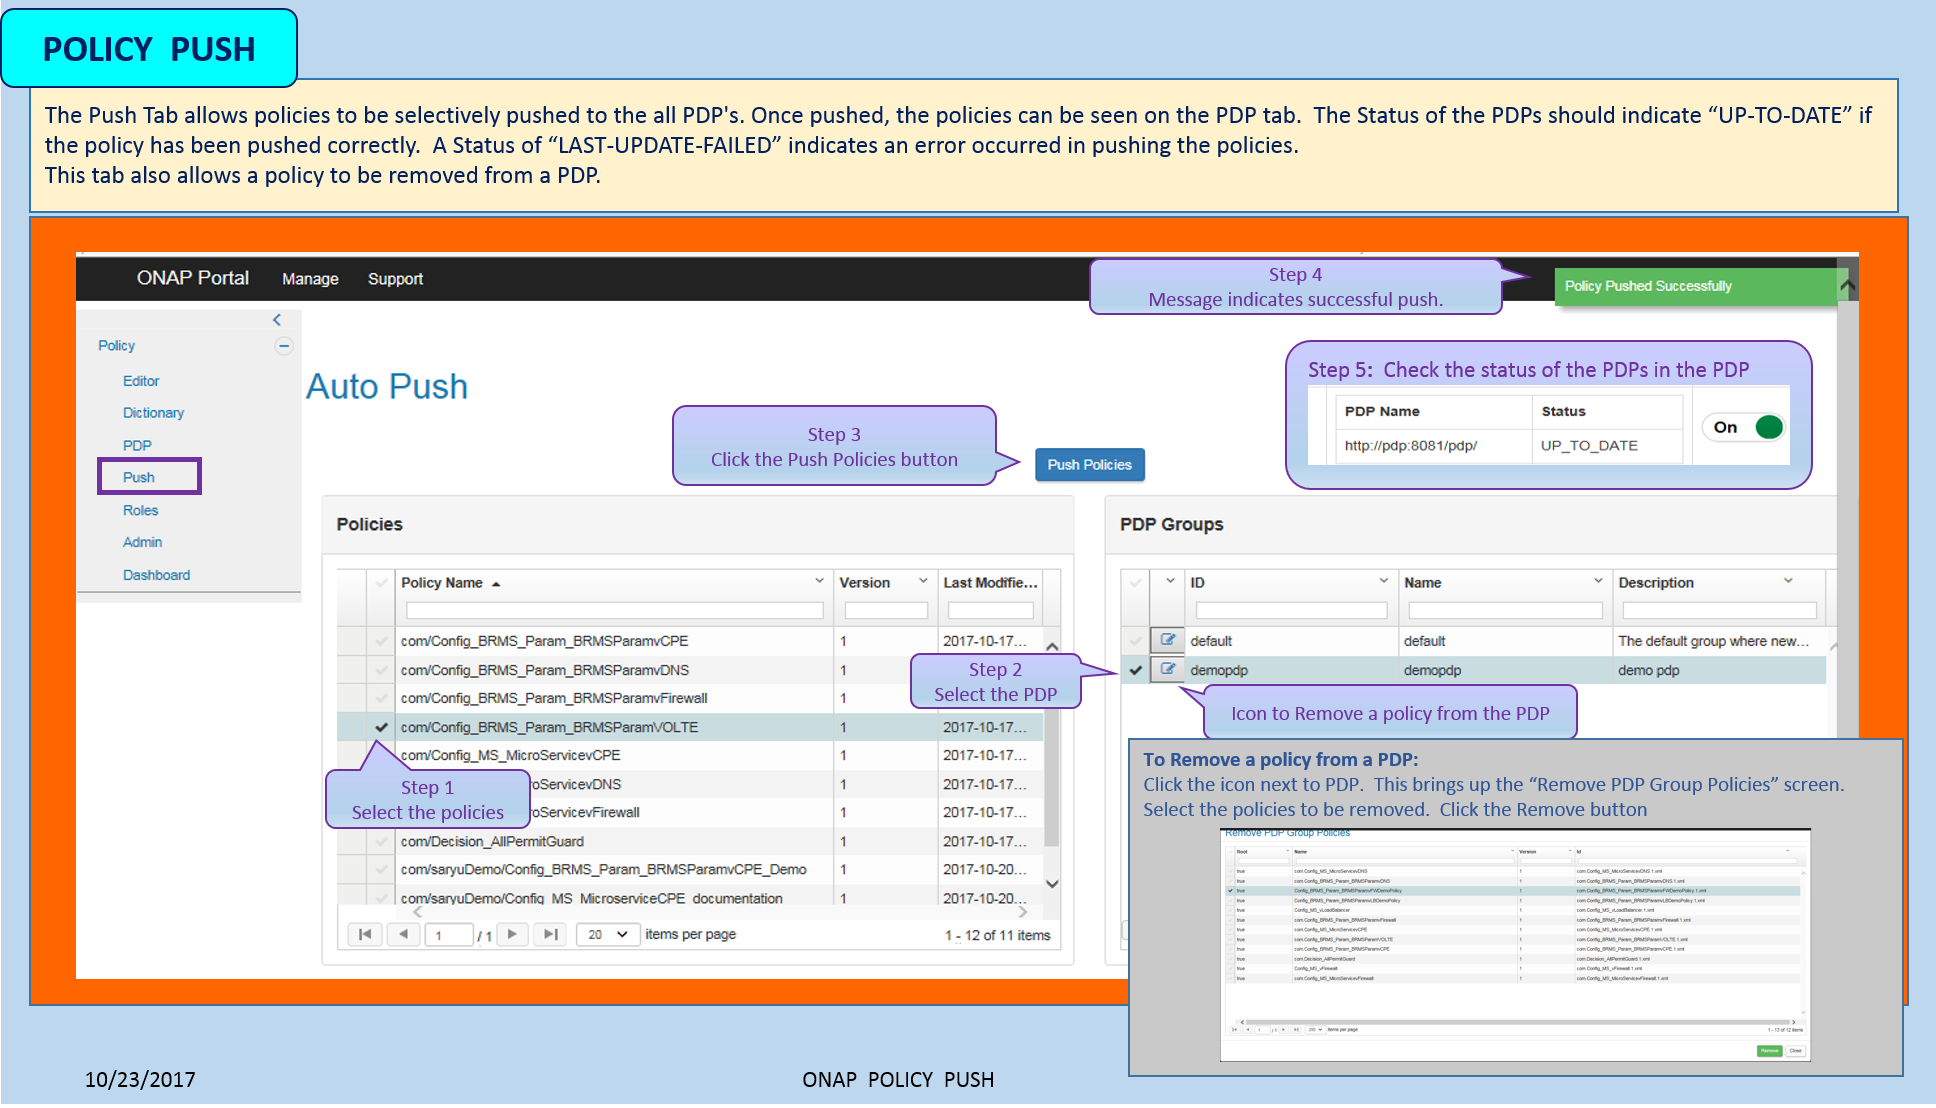
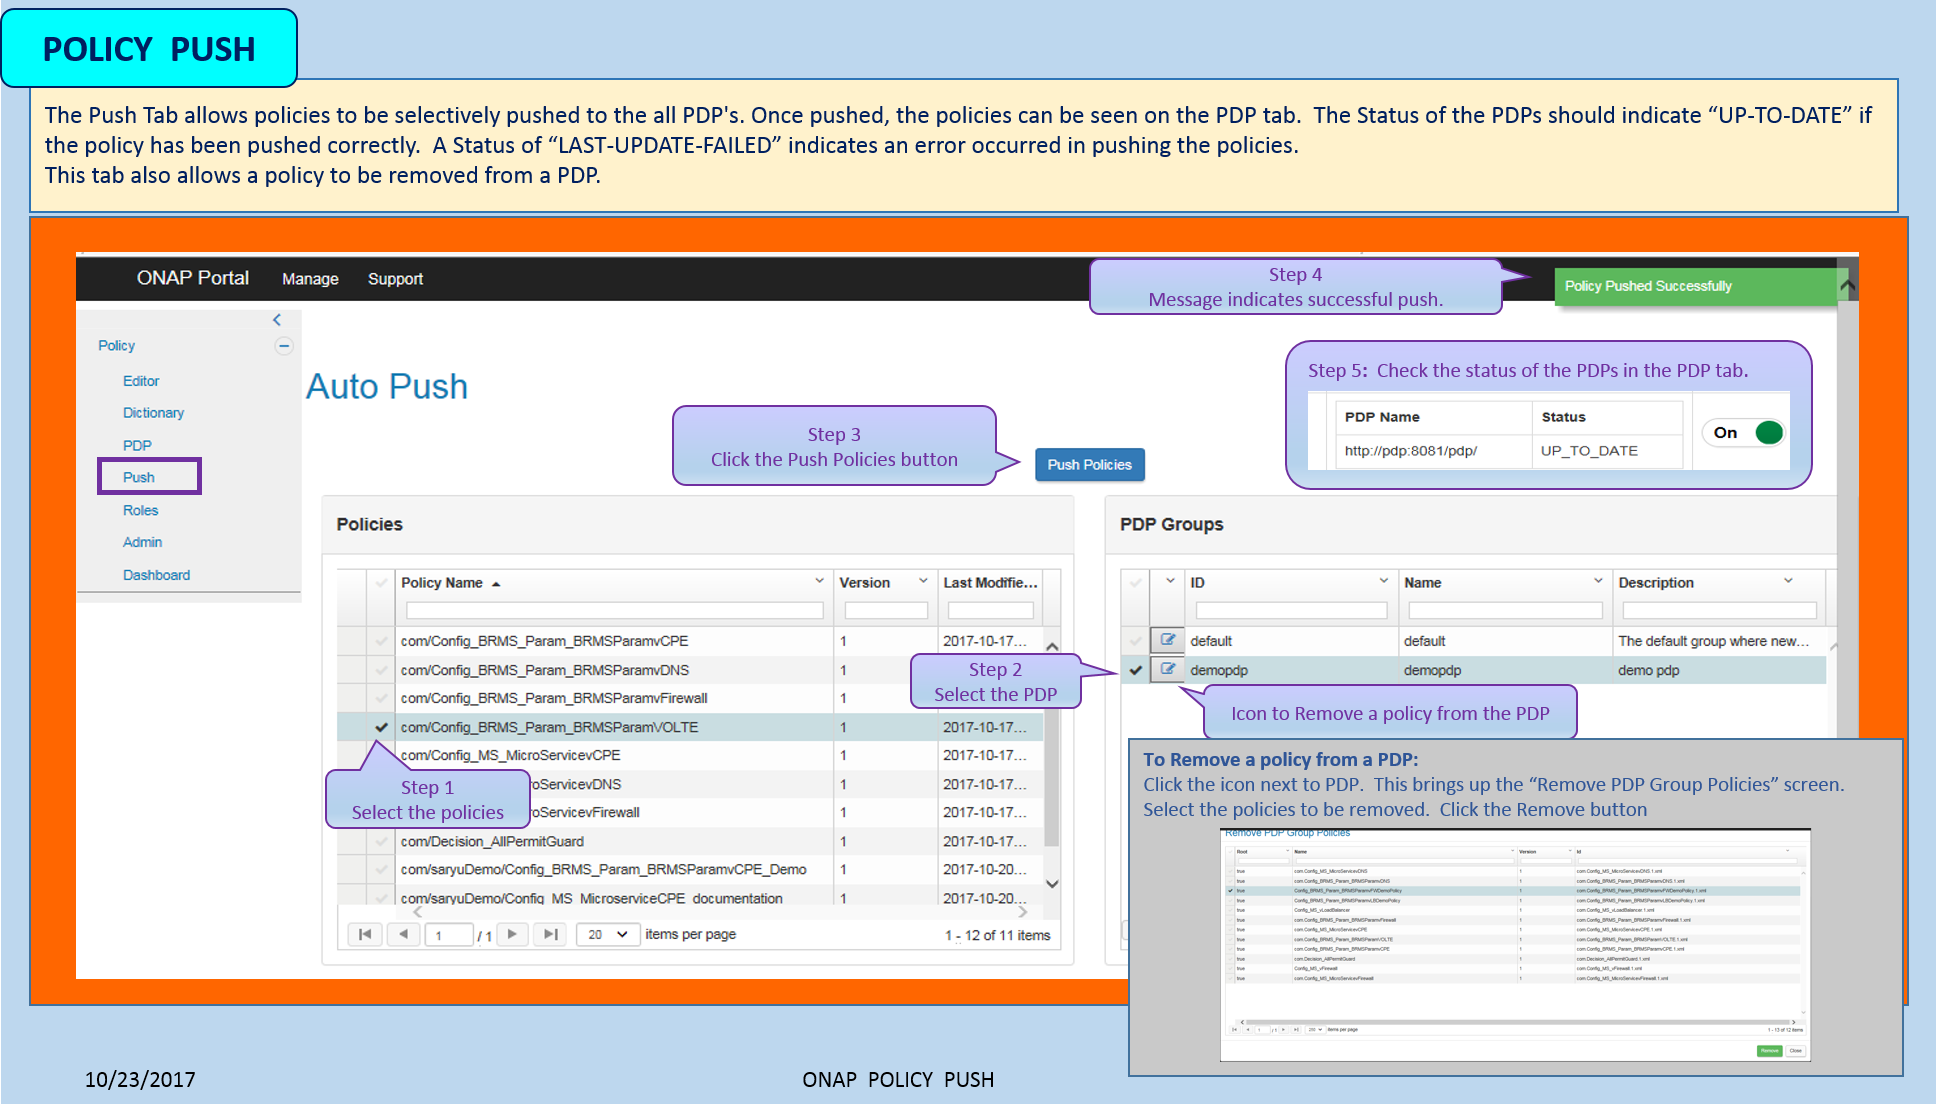
policy gui documentation
Fixed typo in gui documentation
-------------------------------------------------------------

Issue-Id: POLICY-335

Changed region(s): [[0.6818, 0.3069, 0.9298, 0.4296]]

diff --git a/docs/platform/policygui.rst b/docs/platform/policygui.rst
@@ -129,7 +129,7 @@ POLICY Admin
 POLICY Dashboard 
 ^^^^^^^^^^^^^^^^
 
-| The POLICY **Dashboard** shows the **status** and **health** of the system through metrics logs and status update messages.  The dashboard consists of two tabs, a Logging tab and a Health tab. 
+| The POLICY **Dashboard** shows the **status** and **health** of the system through metrics logs and status update messages.  The dashboard consists of two tabs, a **Logging** tab and a **Health** tab. 
 
 .. image:: PolicyGUI_Dashboard.png
 
